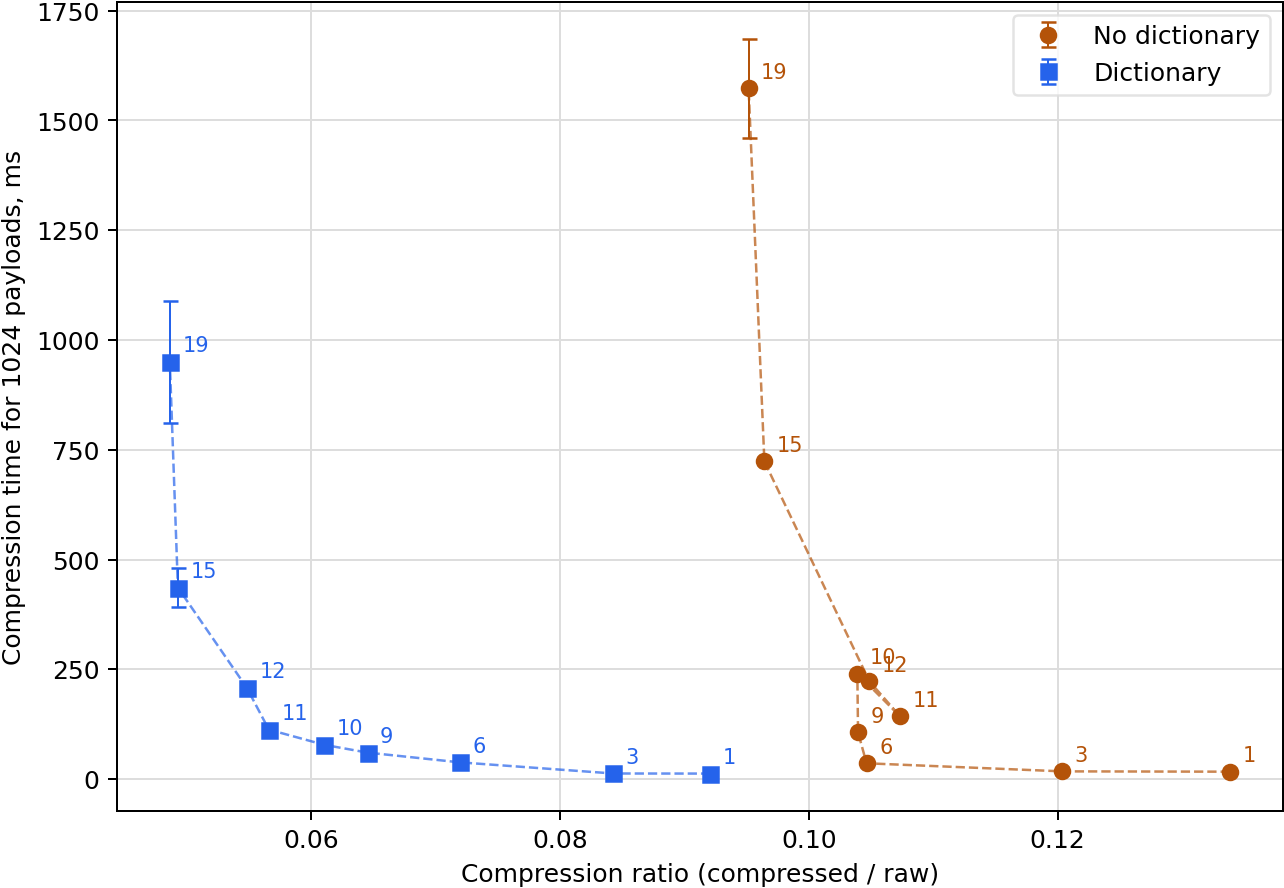
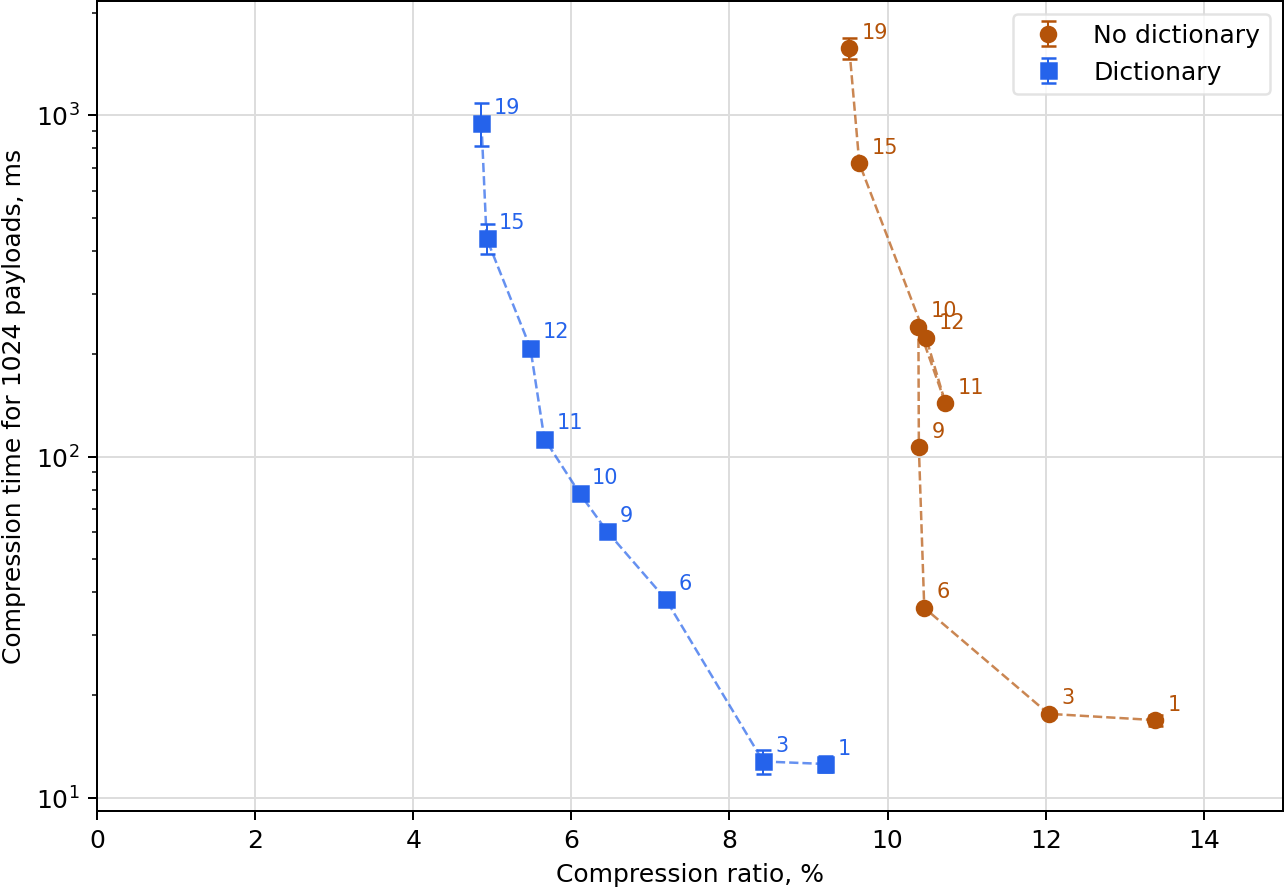
Use log time scale for zstd timing plots

diff --git a/scripts/prepared_mol_zstd_timings_plot.py b/scripts/prepared_mol_zstd_timings_plot.py
@@ -58,9 +58,15 @@ def _draw_scatter(
             if not mode_rows:
                 raise SystemExit(f"No {mode!r} rows in timing input")
             levels = [int(row["level"]) for row in mode_rows]
-            x = [float(row["compression_ratio"]) for row in mode_rows]
+            x = [float(row["compression_ratio"]) * 100 for row in mode_rows]
             y = [float(row[time_field]) * 1_000 for row in mode_rows]
             yerr = [float(row[std_field]) * 1_000 for row in mode_rows]
+            if any(value - error <= 0 for value, error in zip(y, yerr)):
+                raise SystemExit(
+                    f"{mode!r} {time_field} has a non-positive lower error bound; "
+                    "log-scale additive error bars need fresh timing samples or a "
+                    "different uncertainty statistic."
+                )
             ax.plot(
                 x,
                 y,
@@ -91,8 +97,10 @@ def _draw_scatter(
                     color=style["color"],
                 )
 
-        ax.set_xlabel("Compression ratio (compressed / raw)")
+        ax.set_xlabel("Compression ratio, %")
         ax.set_ylabel(ylabel)
+        ax.set_xlim(0, 15)
+        ax.set_yscale("log")
         ax.grid(color="#dddddd", linewidth=0.8)
         ax.set_axisbelow(True)
         ax.legend(frameon=True, edgecolor="#dddddd")